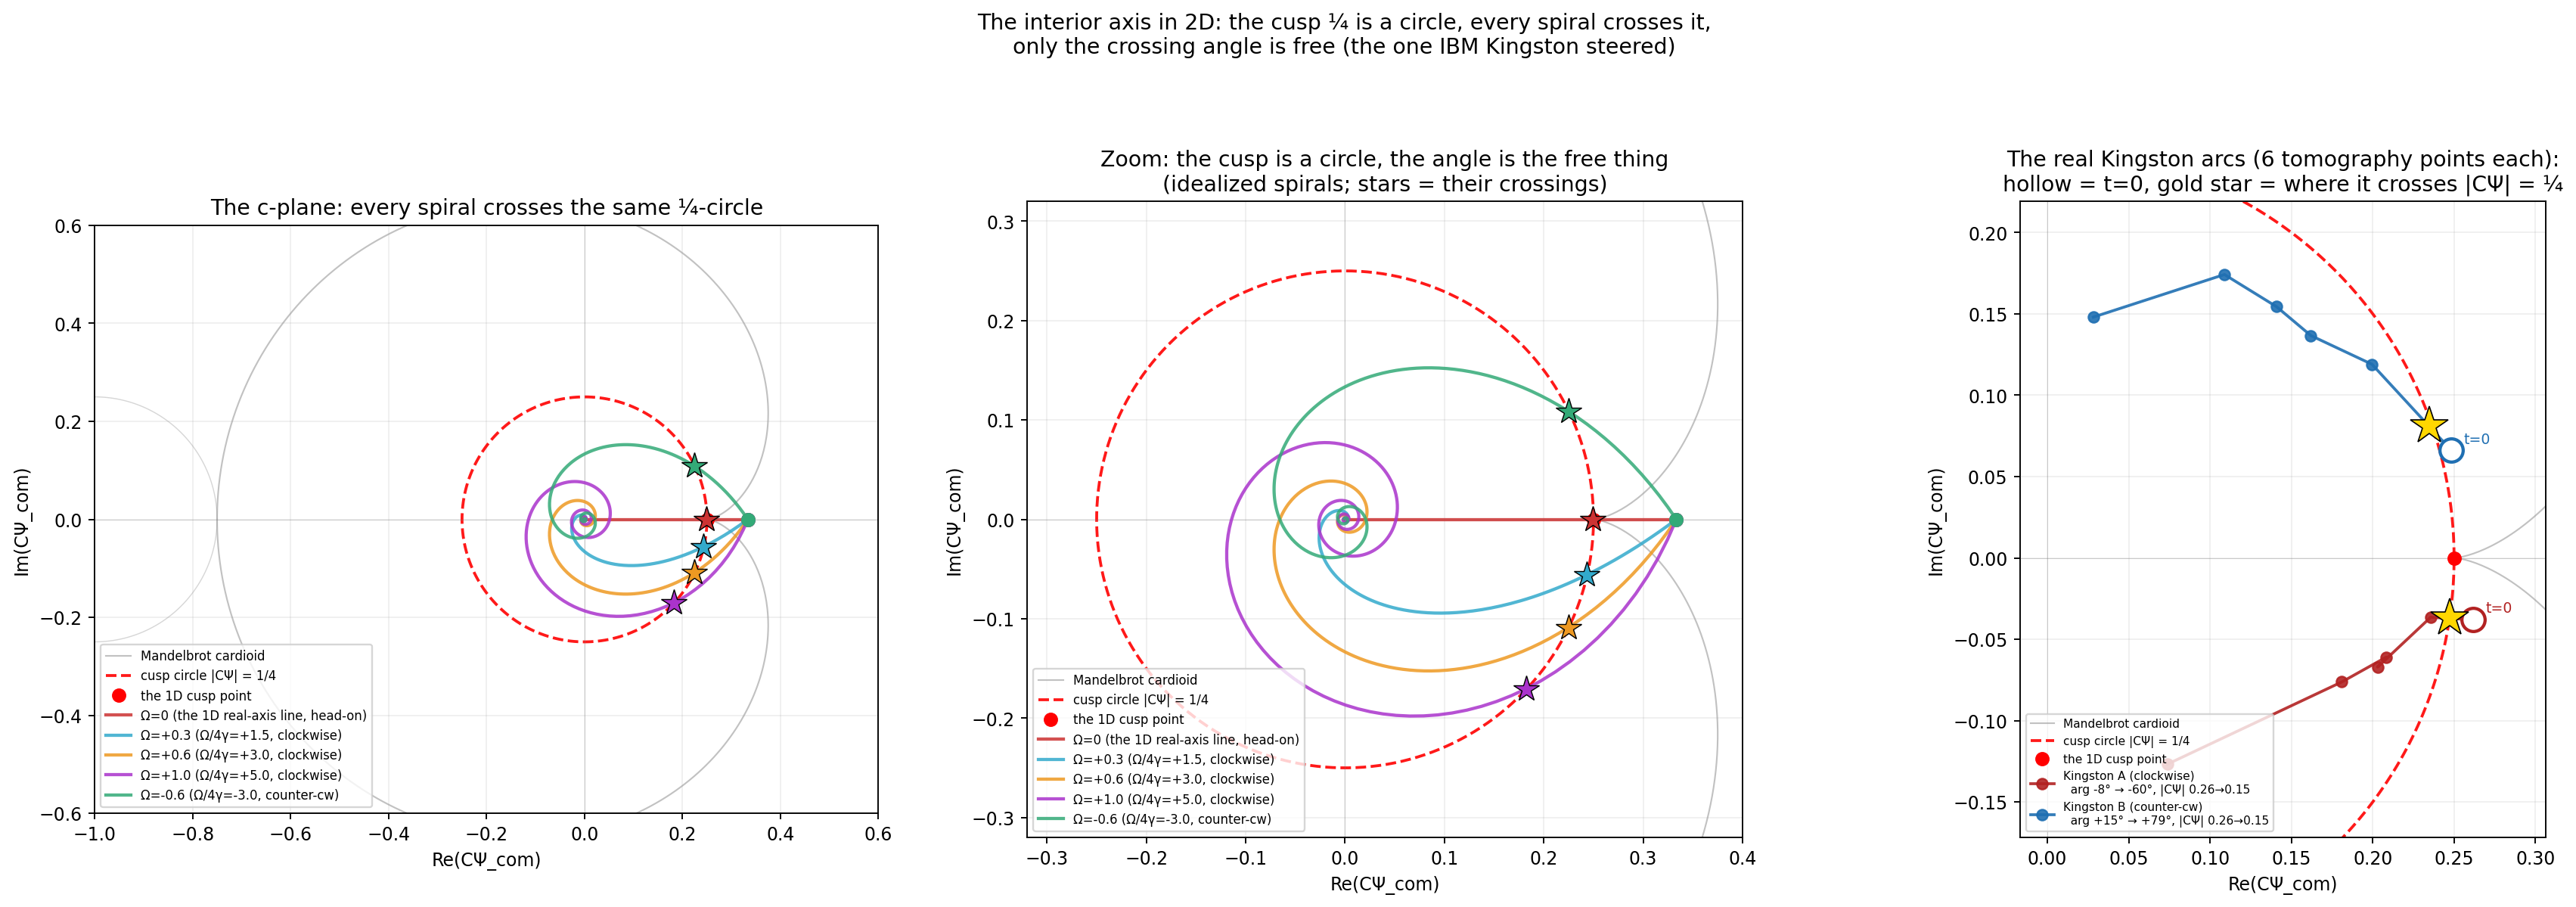
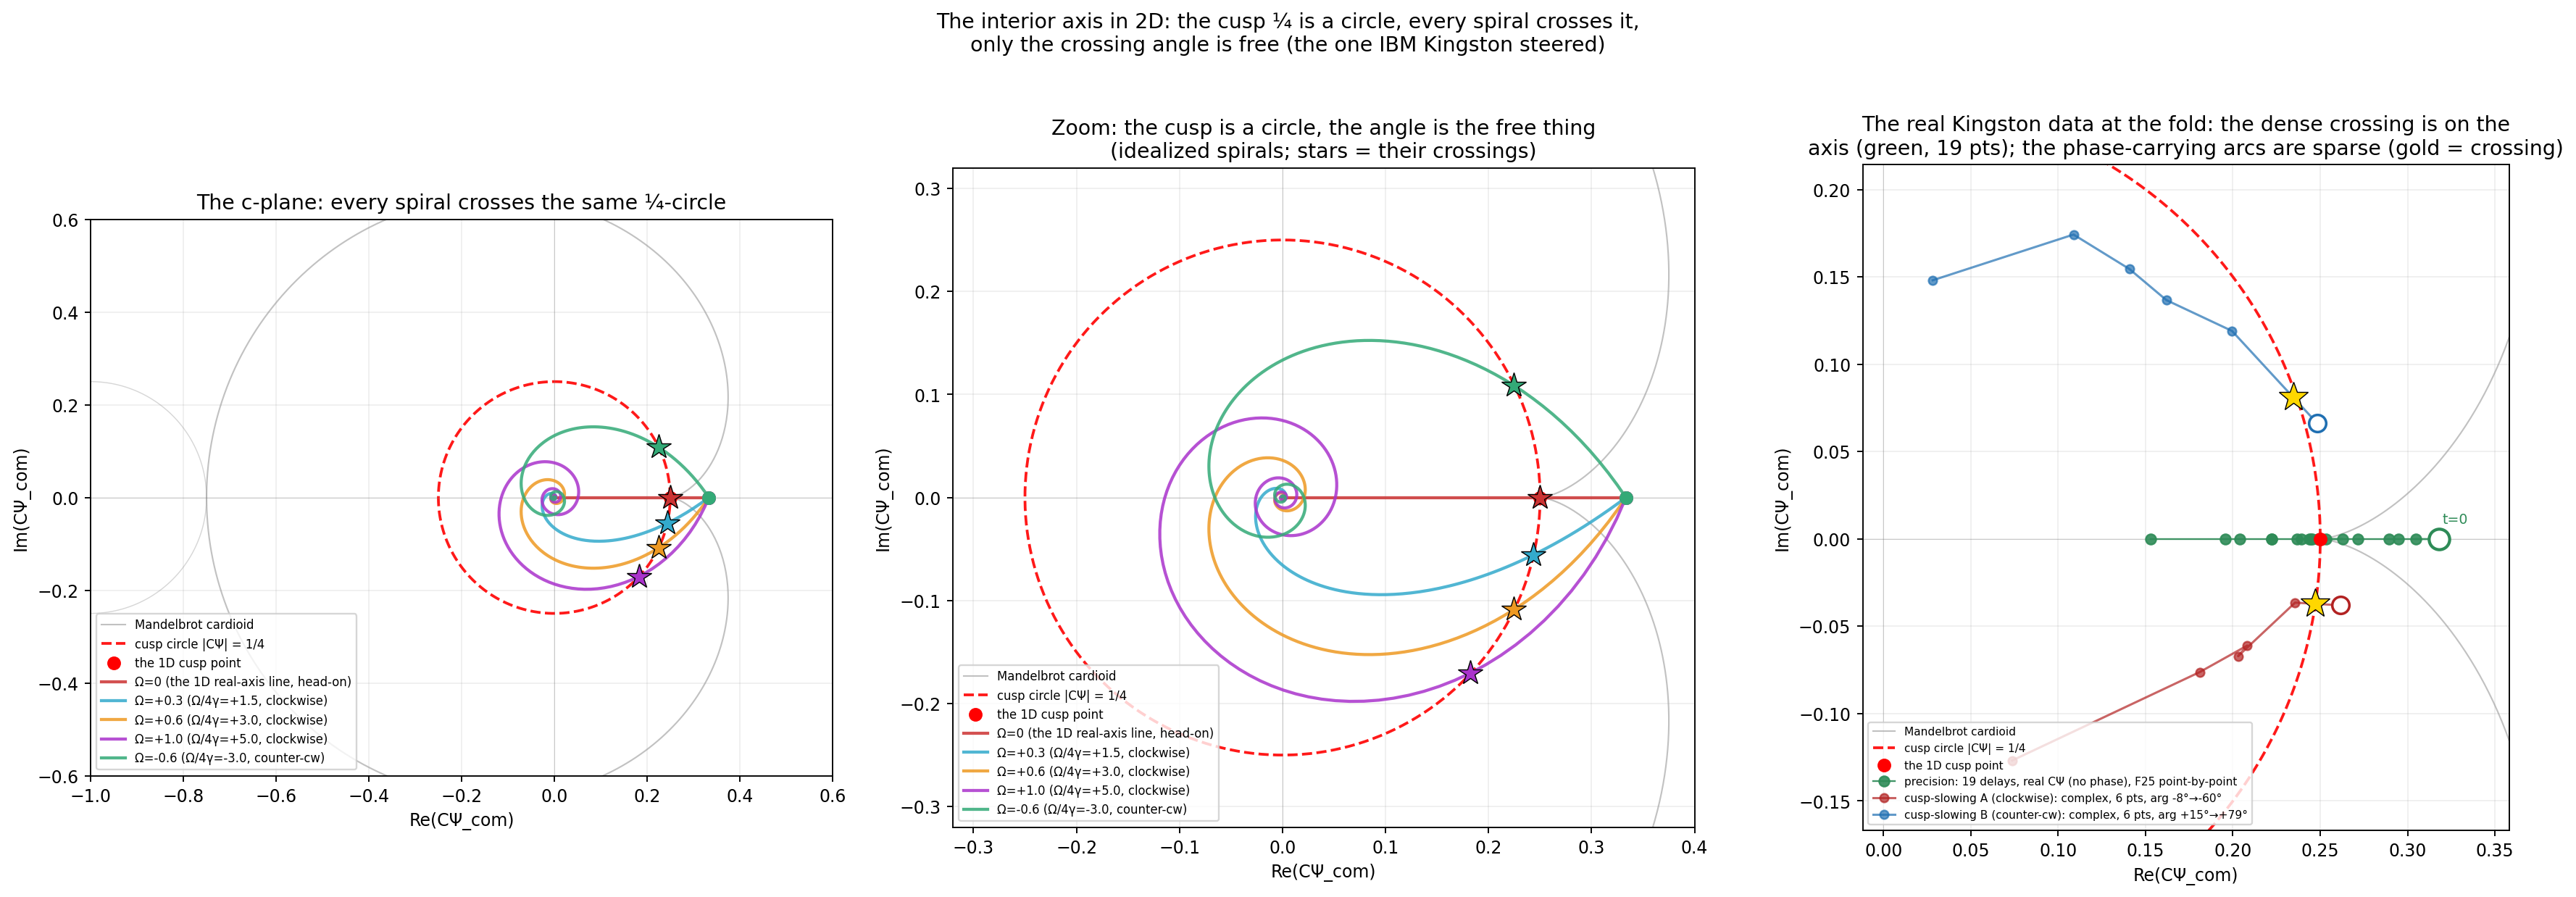
fix+doc: the dense ¼-crossing is the real-axis precision run, not the spiral
Tom: only one IBM run took extremely many points exactly at ¼. Found it: the
April-26 precision run (job d7mu36lqrg3c738lnda0), 19 delays, ~8 packed across
the fold, F25 point-by-point (fit_rms 0.0097). But it stores only a real scalar
CΨ per delay (no density matrix), so it is the dense 1D crossing on the real
axis, not a spiral. The only phase-carrying run is the sparse 6-point April-16
cusp-slowing one.

So the figure overstated the hardware. Honest fix: the hardware panel now leads
with the dense real-axis crossing (green, 19 pts marching through ¼, the Ω=0
spoke) and keeps the sparse complex arcs off-axis for what they are (the only
phase data). Curated copy of the precision JSON into data/ with a README noting
provenance and the real-vs-complex distinction.

Lands the doc too (Task 5): the "interior axis in 2D" section in
NAVIGATING_THE_DIMENSIONS, the two-runs distinction stated plainly, and the
back-reference + note in CPSI_COMPLEX_PLANE.

diff --git a/simulations/cusp_spiral_2d.py b/simulations/cusp_spiral_2d.py
@@ -92,6 +92,28 @@ def load_hardware():
         return []
 
 
+def load_precision():
+    """Best-effort: the dense April-26 precision run, the experiment with many delays
+    sampled exactly across ¼. It stores only a real scalar CΨ per delay (no density
+    matrix, so no phase): this is the dense 1D crossing, living on the real axis, not a
+    spiral. Returns (t_us, cpsi) arrays, or (None, None) if unavailable."""
+    try:
+        import json
+        data_dir = Path(__file__).parent.parent / "data" / "ibm_cusp_precision_april2026"
+        jsons = sorted(data_dir.glob("cusp_precision_*.json"))
+        if not jsons:
+            return None, None
+        with open(jsons[-1], "r", encoding="utf-8") as f:
+            data = json.load(f)
+        pts = data.get("cpsi_data", [])
+        t = np.array([p["t_us"] for p in pts])
+        cpsi = np.array([p["cpsi"] for p in pts])
+        return (t, cpsi) if len(cpsi) else (None, None)
+    except Exception as e:  # noqa: BLE001  best-effort overlay
+        print(f"  (precision overlay skipped: {e})")
+        return None, None
+
+
 def make_static(out_png: Path) -> None:
     # Idealized spirals: fixed γ, a fan of Ω (Ω=0 is the real-axis 1D baseline).
     gamma = 0.05
@@ -104,6 +126,7 @@ def make_static(out_png: Path) -> None:
     ]
     trajs = [trajectory(**c) for c in configs]
     hardware = load_hardware()
+    t_prec, cpsi_prec = load_precision()
 
     fig, axes = plt.subplots(1, 3, figsize=(21, 7))
     ax_full, ax_zoom, ax_hw = axes
@@ -144,34 +167,45 @@ def make_static(out_png: Path) -> None:
         if idx is not None:
             print(f"  Ω={omega:.1f}: crosses |CΨ|=1/4 at angle {ang:+.1f}°")
 
-    # The hardware panel (its own, tightly zoomed): the real Kingston arcs read as
-    # spirals only when given room. Each: a hollow start (t=0), the winding path, and
-    # a gold star ON the ¼-circle where it crosses (the two cues Tom's eye needs).
-    hw_base = {"Kingston A (clockwise)": "#B22222", "Kingston B (counter-cw)": "#1F6FB2"}
+    # The hardware panel (its own, tightly zoomed). Two real runs, two honest roles:
+    #  - the dense April-26 precision run (green): 19 delays, real CΨ on the axis,
+    #    marching point-by-point through ¼ (the "many points exactly at ¼", Ω=0 head-on).
+    #  - the sparse April-16 cusp-slowing run: 6 complex points per pair, the only data
+    #    carrying phase, leaving the axis under residual drift (the 2D arc, suggestive).
     allre, allim = [], []
+    if t_prec is not None:
+        zeros = np.zeros_like(cpsi_prec)
+        ax_hw.plot(cpsi_prec, zeros, "o-", color="#2E8B57", markersize=6, lw=1.0, alpha=0.9,
+                   zorder=5, label=f"precision: {len(cpsi_prec)} delays, real CΨ (no phase), F25 point-by-point")
+        i0 = int(np.argmax(cpsi_prec))   # t=0 is the least-decayed (largest) CΨ
+        ax_hw.plot(cpsi_prec[i0], 0.0, "o", mfc="white", mec="#2E8B57", mew=1.8,
+                   markersize=12, zorder=6)
+        ax_hw.annotate("t=0", (cpsi_prec[i0], 0.0), textcoords="offset points",
+                       xytext=(2, 9), fontsize=8, color="#2E8B57")
+        allre += list(cpsi_prec)
+        allim += list(zeros)
+    hw_base = {"Kingston A (clockwise)": "#B22222", "Kingston B (counter-cw)": "#1F6FB2"}
     for label, c in hardware:
         col = hw_base.get(label, "#333333")
         a0, a1 = np.degrees(np.angle(c[0])), np.degrees(np.angle(c[-1]))
-        ax_hw.plot(c.real, c.imag, "o-", color=col, lw=1.6, markersize=6, alpha=0.9,
-                   zorder=4, label=f"{label}\n  arg {a0:+.0f}° → {a1:+.0f}°, |CΨ| {abs(c[0]):.2f}→{abs(c[-1]):.2f}")
-        ax_hw.plot(c.real[0], c.imag[0], "o", mfc="white", mec=col, mew=1.8,
-                   markersize=13, zorder=5)
-        ax_hw.annotate("t=0", (c.real[0], c.imag[0]), textcoords="offset points",
-                       xytext=(7, 4), fontsize=8, color=col, zorder=6)
+        ax_hw.plot(c.real, c.imag, "o-", color=col, lw=1.3, markersize=5, alpha=0.7,
+                   zorder=3, label=f"cusp-slowing {label[9:]}: complex, 6 pts, arg {a0:+.0f}°→{a1:+.0f}°")
+        ax_hw.plot(c.real[0], c.imag[0], "o", mfc="white", mec=col, mew=1.5,
+                   markersize=10, zorder=4)
         cross = circle_crossing_point(c)
         if cross is not None:
             ax_hw.plot(cross.real, cross.imag, "*", color="gold", markeredgecolor="black",
-                       markeredgewidth=0.7, markersize=22, zorder=7)
+                       markeredgewidth=0.6, markersize=18, zorder=6)
         allre += list(c.real)
         allim += list(c.imag)
     if allre:
-        pad = 0.045
+        pad = 0.04
         ax_hw.set_xlim(min(allre) - pad, max(allre) + pad)
         ax_hw.set_ylim(min(allim) - pad, max(allim) + pad)
     else:
         ax_hw.text(0.5, 0.5, "Kingston data not found", transform=ax_hw.transAxes,
                    ha="center", va="center", fontsize=10, color="gray")
-        ax_hw.set_xlim(-0.02, 0.30)
+        ax_hw.set_xlim(-0.02, 0.34)
         ax_hw.set_ylim(-0.18, 0.20)
 
     ax_full.set_xlim(-1.0, 0.6)
@@ -194,8 +228,8 @@ def make_static(out_png: Path) -> None:
     ax_zoom.set_ylabel("Im(CΨ_com)")
 
     ax_hw.set_aspect("equal")
-    ax_hw.set_title("The real Kingston arcs (6 tomography points each):\n"
-                    "hollow = t=0, gold star = where it crosses |CΨ| = ¼")
+    ax_hw.set_title("The real Kingston data at the fold: the dense crossing is on the\n"
+                    "axis (green, 19 pts); the phase-carrying arcs are sparse (gold = crossing)")
     ax_hw.grid(True, alpha=0.2)
     ax_hw.legend(loc="lower left", fontsize=6.5)
     ax_hw.set_xlabel("Re(CΨ_com)")

diff --git a/data/ibm_cusp_precision_april2026/README.md b/data/ibm_cusp_precision_april2026/README.md
@@ -1,0 +1,57 @@
+# IBM Kingston Cusp-Precision Run, April 26 2026
+
+The dense point-by-point confirmation of the CΨ = 1/4 crossing (F25), curated copy of an
+external full run. Single Bell⁺ pair, sampled densely right across the cusp.
+
+## What is in this directory
+
+| File | Description |
+|------|-------------|
+| `cusp_precision_ibm_kingston_20260426_115939.json` | The 19-delay trajectory: per-delay real CΨ, the F25 fit, and the pointwise residuals |
+
+## Why this run is here
+
+This is the experiment with extremely many data points exactly at 1/4. Where the April-16
+[cusp-slowing run](../ibm_cusp_slowing_april2026/) used only six delays per pair to bracket the
+crossing (but saved full density matrices, so it carries phase), this run sampled the crossing
+**densely**: 19 delays at factors 0.05 to 3.0 of the predicted t_cross, with about eight of them
+packed across the fold (factors 0.85 to 1.15, CΨ ≈ 0.22 to 0.26). It is the point-by-point F25
+confirmation.
+
+**It carries no phase.** The JSON stores only a real scalar `cpsi` per delay (the F25 magnitude),
+not the 4×4 density matrices. So this trajectory lives on the **real axis** of the c-plane: it is
+the dense 1D crossing (the Ω = 0, head-on case), not a 2D spiral. The spiral structure (a complex
+CΨ leaving the real axis) is the sparse, phase-carrying April-16 run; this run is the dense,
+real-only magnitude crossing. The two are complementary, not the same experiment.
+
+## Experiment summary
+
+- **Backend:** ibm_kingston (Heron r2)
+- **Date:** 2026-04-26
+- **Job ID:** `d7mu36lqrg3c738lnda0`
+- **Pair:** qubits 14, 15 (T2_min ≈ 303 μs, γ ≈ 0.00165 1/μs); γ_calib 0.015, γ_fit 0.014977
+- **Protocol:** Bell⁺ (H + CX), native delay, 9-Pauli 2-qubit tomography, 2048 shots per basis, 171 circuits total
+- **Delays:** 19, at factors [0.05, 0.15, 0.3, 0.5, 0.7, 0.85, 0.92, 0.96, 0.99, 1.0, 1.01, 1.04, 1.08, 1.15, 1.3, 1.5, 1.8, 2.3, 3.0] of t_cross
+- **Result:** F25 = f·(1+f²)/6, f = exp(−4γt), fits with γ the only free parameter; `fit_rms` = 0.0097; `F_CROSS` = 0.8612, `K_CROSS` = 0.037350 (γ·t at the crossing)
+
+## Structure of the JSON
+
+```
+{
+  "mode": "hardware", "backend": "ibm_kingston", "job_id": "d7mu36lqrg3c738lnda0",
+  "pair": { "qubits": [14, 15], "gamma_per_us": ... },
+  "gamma_calib": 0.015, "gamma_fit": 0.014977,
+  "delay_factors": [ ... 19 ... ],
+  "cpsi_data": [ { "factor": ..., "t_us": ..., "cpsi": ... }, ... 19 ... ],
+  "pointwise_residual_calib": [ ... ], "pointwise_residual_fit": [ ... ],
+  "fit_rms": 0.0097, "F_CROSS": 0.8612, "K_CROSS": 0.037350
+}
+```
+
+## Provenance
+
+Curated copy of the full run, which lives external to this repo in the IBM tomography directory
+(`ibm_quantum_tomography/run_cusp_precision.py`, results folder). See
+[CRITICAL_SLOWING_AT_THE_CUSP.md](../../experiments/CRITICAL_SLOWING_AT_THE_CUSP.md) (the April-26
+precision update) for the full analysis. The JSON here is the authoritative record of the values
+the repo's plots read.

diff --git a/docs/NAVIGATING_THE_DIMENSIONS.md b/docs/NAVIGATING_THE_DIMENSIONS.md
@@ -272,6 +272,44 @@ state-coordinate axis, N-free (the recursion and the heading depend only on CΨ,
 state-independence is itself hardware-confirmed). Three axes now, three ways to read the in-between:
 the rigid turn, the eigenvector mixing, and the approach to a horizon.
 
+## The interior axis in 2D: the cusp is a circle (2026-06-03)
+
+The interior axis reads the fall toward ¼ on the real line: one coherence CΨ, sliding from 1/3 down
+through the cusp. But the real line is a cross-section. Put a common Z-drift Ω underneath the dephasing
+and the coherence turns complex: the off-diagonal carries a phase, CΨ leaves the real axis, and the
+trajectory winds inward as a logarithmic spiral. Read this way the cusp ¼ is no longer a point. It is a
+circle, |CΨ| = ¼, and the point we were watching on the line was that circle seen edge-on.
+
+This is the same axis, not a fourth, because the radius does not change. The magnitude
+|CΨ|(t) = f(1 + f²)/6, f = e^(−4γt), is the same F25 geodesic the interior axis already reads, and it
+does not feel Ω at all. So every spiral, however fast it winds, crosses the same ¼-circle at the same
+time. The only thing the drift sets is the angle it crosses at, φ₀ − Ω·t_cross. Turn Ω to zero and the
+spiral straightens into the real-axis line and crosses head-on: the 1D interior axis is the Ω = 0 spoke
+of the 2D wheel.
+
+The hardware says both halves of this honestly, and they come from different runs. The magnitude
+crossing is confirmed densely and point-by-point: a [precision run](../experiments/CRITICAL_SLOWING_AT_THE_CUSP.md)
+walked nineteen delays across ¼, eight of them packed right at the fold, the F25 law fitting with γ the
+only free parameter. Those points carry no phase, so they sit on the real axis, the Ω = 0 spoke, the
+head-on crossing. The phase, the thing that turns a crossing into a winding, comes from a second,
+[sparser run](../experiments/CPSI_COMPLEX_PLANE.md) that saved the full state: six points per pair,
+enough to watch the trajectory leave the axis as a small arc, one clockwise, one counter-clockwise, each
+still crossing the same circle. The angle itself is steerable, an injected drift moving the crossing to
+where it was asked (three crossings, residuals under sixteen degrees). The radial dwell at the fold is
+the F57 dose, the angular winding carries the same square-root form the interior heading does, and the
+¼-circle is where the two readings meet. We keep that meeting as the reading, at the label; the solid algebra,
+that this cusp and the exceptional point are the one [F95](proofs/PROOF_F95_ANGLE_AT_QUADRATIC_ZERO.md)
+angle at a quadratic's double root, is already typed as the TransitionBridge sibling claim.
+
+The eyepiece is `inspect --root between --axis spiral`: the cusp circle, one spiral winding in, the
+crossing angle swept against Ω (the time flat, the angle moving), the Kingston runs, and the
+kinship. The picture is [cusp_spiral_2d.py](../simulations/cusp_spiral_2d.py): every idealized spiral
+crossing the one circle, a panel for the real data (the dense crossing point-by-point on the axis, the
+sparse phase-carrying arcs leaving it), and a short animation of a single spiral winding down into the
+fold.
+
+![The cusp is a circle; every spiral crosses it](../simulations/results/cusp_spiral_2d/cusp_spiral_2d.png)
+
 ## Where I had to decide (surfaced for keyword correction)
 
 1. **The marks are the contract, the in-between is the content.** Reframed (your keyword): the doc
@@ -297,9 +335,11 @@ the rigid turn, the eigenvector mixing, and the approach to a horizon.
 - (done, see The third axis) The interior horizon is built: two sides meeting at ¼ (the heading θ → 0
   from the interior, the live Mandelbrot recursion crawling from the classical side), the
   slowing-is-ours seam, the γ-invariant dwell anchored to the four Kingston confirmations. What
-  remains: the family of approach shapes (sweeping the start state or γ to draw the scaling laws), the
-  2D complex-c-plane spirals (this axis reads the 1D real-axis approach), and a painter-style
-  phenomenological twin if it earns one.
+  remains, after the 2D reading below: the family of approach shapes (sweeping the start state or γ to
+  draw the scaling laws), and a painter-style phenomenological twin if it earns one.
+- (done, see The interior axis in 2D) The 2D complex-c-plane reading is built: the cusp as a circle
+  |CΨ| = ¼, the steerable crossing angle, the dense real-axis crossing (the precision run) and the
+  sparse phase-carrying arcs (the cusp-slowing run) shown for what each is.
 - Whether the axes nest (a γ-distribution in-between at each fixed bond angle) or are an independent
   product, and the order to navigate.
 - What the first live navigator GameObject computes and how movement is expressed (a single position
@@ -313,5 +353,6 @@ the rigid turn, the eigenvector mixing, and the approach to a horizon.
 - [Crossover mirror = √(NinetyDegreeMirror)](proofs/PROOF_CROSSOVER_MIRROR_SQRT_NINETY.md): the operator-axis, derived.
 - [On the Square Root of the Mirror](../reflections/ON_THE_SQUARE_ROOT_OF_THE_MIRROR.md): the S/T-gate reading.
 - [Critical Slowing at the Cusp](../experiments/CRITICAL_SLOWING_AT_THE_CUSP.md): the closed-form recursion K(ε), the γ-invariant dwell, the four Kingston confirmations (the interior horizon, hardware).
+- [CΨ in the Complex Plane](../experiments/CPSI_COMPLEX_PLANE.md): the 2D spirals, the cusp as a circle |CΨ| = ¼, the Kingston angle-steering (the interior axis in 2D, hardware).
 - [Pair Breaking at the Horizon](../hypotheses/PAIR_BREAKING_AT_THE_HORIZON.md): the cusp ¼ as the fold where time stops (the horizon reading, structural).
 - The live Object Manager: `compute/RCPsiSquared.Cli` `inspect` (roots `mirror`, `flow`, `pi2`, and `--claim`).

diff --git a/experiments/CPSI_COMPLEX_PLANE.md b/experiments/CPSI_COMPLEX_PLANE.md
@@ -5,6 +5,8 @@
 **Input data:** [`data/ibm_cusp_slowing_april2026/`](../data/ibm_cusp_slowing_april2026/README.md) (ibm_kingston, 2026-04-16)
 **Scripts:** [`cpsi_complex_plane.py`](../simulations/cpsi_complex_plane.py), [`hardware_cpsi_cplane.py`](../simulations/hardware_cpsi_cplane.py)
 **Images:** [`cpsi_complex_plane.png`](../simulations/results/cpsi_complex_plane.png), [`hardware_cpsi_cplane.png`](../simulations/results/hardware_cpsi_cplane.png)
+**Live instrument:** `inspect --root between --axis spiral` (`ComplexCuspSpiralField`), read as the interior axis in 2D in [NAVIGATING_THE_DIMENSIONS](../docs/NAVIGATING_THE_DIMENSIONS.md); figure [`cusp_spiral_2d.py`](../simulations/cusp_spiral_2d.py).
+**A note on the two runs:** this run (April 16) saved full density matrices, so it carries phase and shows the 2D spiral, but with only six delays per pair. The dense point-by-point crossing of ¼ is a separate, real-valued run on the real axis, the [April-26 precision run](../data/ibm_cusp_precision_april2026/README.md) (19 delays). The spiral here is sparse; the dense crossing there has no phase. They are complementary.
 
 ---
 